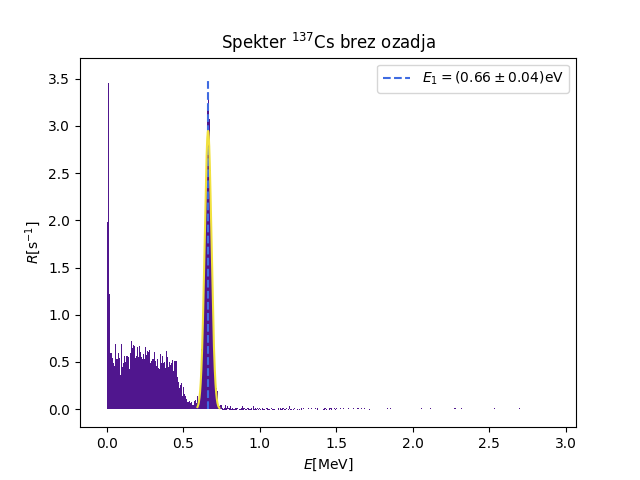
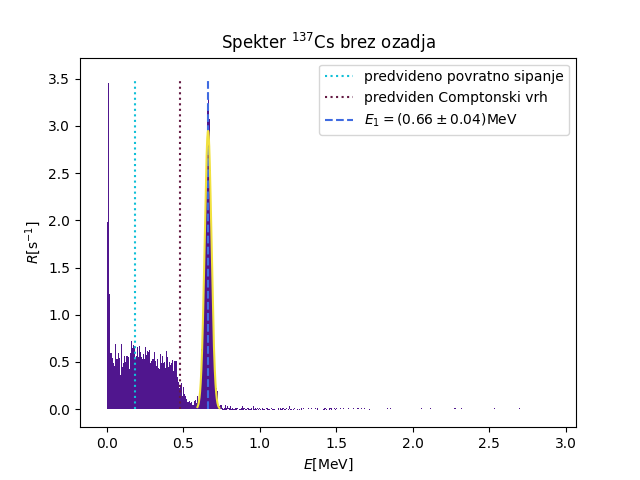
feat: compton peak and backscatter for Cs

Changed region(s): [[0.5625, 0.125, 0.875, 0.2812]]

diff --git a/07gamma/source/obdelovanje_07gamma.py b/07gamma/source/obdelovanje_07gamma.py
@@ -50,12 +50,11 @@ def linearna(x, k, n):
 def gauss(x, C, mi, sigma):
     return C * np.exp(- (x - mi) ** 2 / (2 * sigma ** 2))
 
-
 def backscatter(energy):
     return energy/(1 + 2 * energy/0.51)
 
 def comptonpeak(energy):
-    return energy * 2 * (energy/0.51) * ( 1 + 2 * energy / 0.51 )
+    return energy * 2 * (energy/0.51) / ( 1 + 2 * energy / 0.51 )
 
 # more colors
 
@@ -169,20 +168,27 @@ print("R drugega vrha natrija: ", 2.355 * sigma_Na2 / E0_Na2)
 
 plt.plot(xcal_Na22_p2, gauss(xcal_Na22_p2, *fitpar_na22_p2), color=e3)
 
-# backscatter and Compton peak
+# backscatter and Compton peak, v enačbo vstaviš energijo prvega (ali edinega) vrha
 
 backscatterNa22 = backscatter(0.511)
 comptonPeakNa22 = comptonpeak(0.511)
 
-plt.vlines(backscatterNa22, 0, 2.0, color=d3, label="predvideno povratno sipanje")
-plt.vlines(comptonPeakNa22, 0, 2.0, color=e1, label='predviden Comptonski vrh')
+plt.vlines(backscatterNa22, 0, 2.0, color=d3, ls='dotted',
+           label="predvideno povratno sipanje")
+plt.vlines(comptonPeakNa22, 0, 2.0, color=e1, ls='dotted',
+           label='predviden Comptonski vrh')
+
+# plot of bars and energy
 
 plt.bar(x_cal, r_na22, width=0.001, color=d1)
-plt.vlines(0.51, 0, 2.0, color=d2, ls = '--', zorder=1)
-plt.vlines(1.277, 0, 2.0, color=d2, ls = '--', zorder=1)
+plt.vlines(0.51, 0, 2.0, color=d2, ls = '--', zorder=1,
+           label=r'$E_1 = 0.51 \mathrm{MeV}$')
+plt.vlines(1.277, 0, 2.0, color=d2, ls = '--', zorder=1,
+           label=r'$E_2 = 1.27 \mathrm{MeV}$')
 plt.title(r'Spekter $^{22} \mathrm{Na}$ brez ozadja')
 plt.xlabel(r'$E [\mathrm{MeV}]$')
 plt.ylabel(r'$R [\mathrm{s} ^{-1}]$')
+plt.legend()
 plt.savefig('../porocilo/figures/na22_no_bg.png')
 plt.close()
 
@@ -211,15 +217,26 @@ xCalCs137 = x_cal[startPeakCs:endPeakCs]
 fitparCs137, fitcovCs137 = curve_fit(gauss, xCalCs137,
                                      r_cs137[startPeakCs:endPeakCs])
 
+sigmaCs =  unp.uarray(fitparCs137[2], np.sqrt(np.diag(fitcovCs137))[2])
+E0Cs = unp.uarray(fitparCs137[1], np.sqrt(np.diag(fitcovCs137))[2])
+
 # širina vrha
 
-print("Širina prvega vrha cezija: ", unp.uarray(fitparCs137[2],
-                                                np.sqrt(np.diag(fitcovCs137))[2]))
+print("Širina prvega vrha cezija: ", sigmaCs)
+print("R cezija: ", 2.355 * sigmaCs / E0Cs)
 
-print("Plot of Cs")
+# backscatter and Compton peak
+
+backscatterCs = backscatter(unp.nominal_values(E0Cs))
+comptonPeakCs = comptonpeak(unp.nominal_values(E0Cs))
+
+plt.vlines(backscatterCs, 0, 3.5, color=d3, ls='dotted',
+           label="predvideno povratno sipanje")
+plt.vlines(comptonPeakCs, 0, 3.5, color=e1, ls='dotted',
+           label='predviden Comptonski vrh')
+
 # plot of Gauss function
 
-'''
 plt.plot(xCalCs137, gauss(xCalCs137, *fitparCs137), color=e3)
 
 # bar plot of cezij
@@ -227,7 +244,7 @@ plt.bar(x_cal, r_cs137, width=0.001, color=d1)
 
 # the maximum of cezij
 plt.vlines(x_cal[argmaxCs], 0, 3.5, color=d2, ls = '--', zorder=1,
-           label=r'$E_1 = (0.66 \pm 0.04) \mathrm{eV}$')
+           label=r'$E_1 = (0.66 \pm 0.04) \mathrm{MeV}$')
 
 # miscs for matplotlib
 plt.legend()
@@ -236,7 +253,7 @@ plt.xlabel(r'$E [\mathrm{MeV}]$')
 plt.ylabel(r'$R [\mathrm{s} ^{-1}]$')
 plt.savefig('../porocilo/figures/Cs137_no_bg.png')
 plt.close()
-'''
+
 print("Finished plot of Cs")
 
 # --- kobalt brez šuma ---
